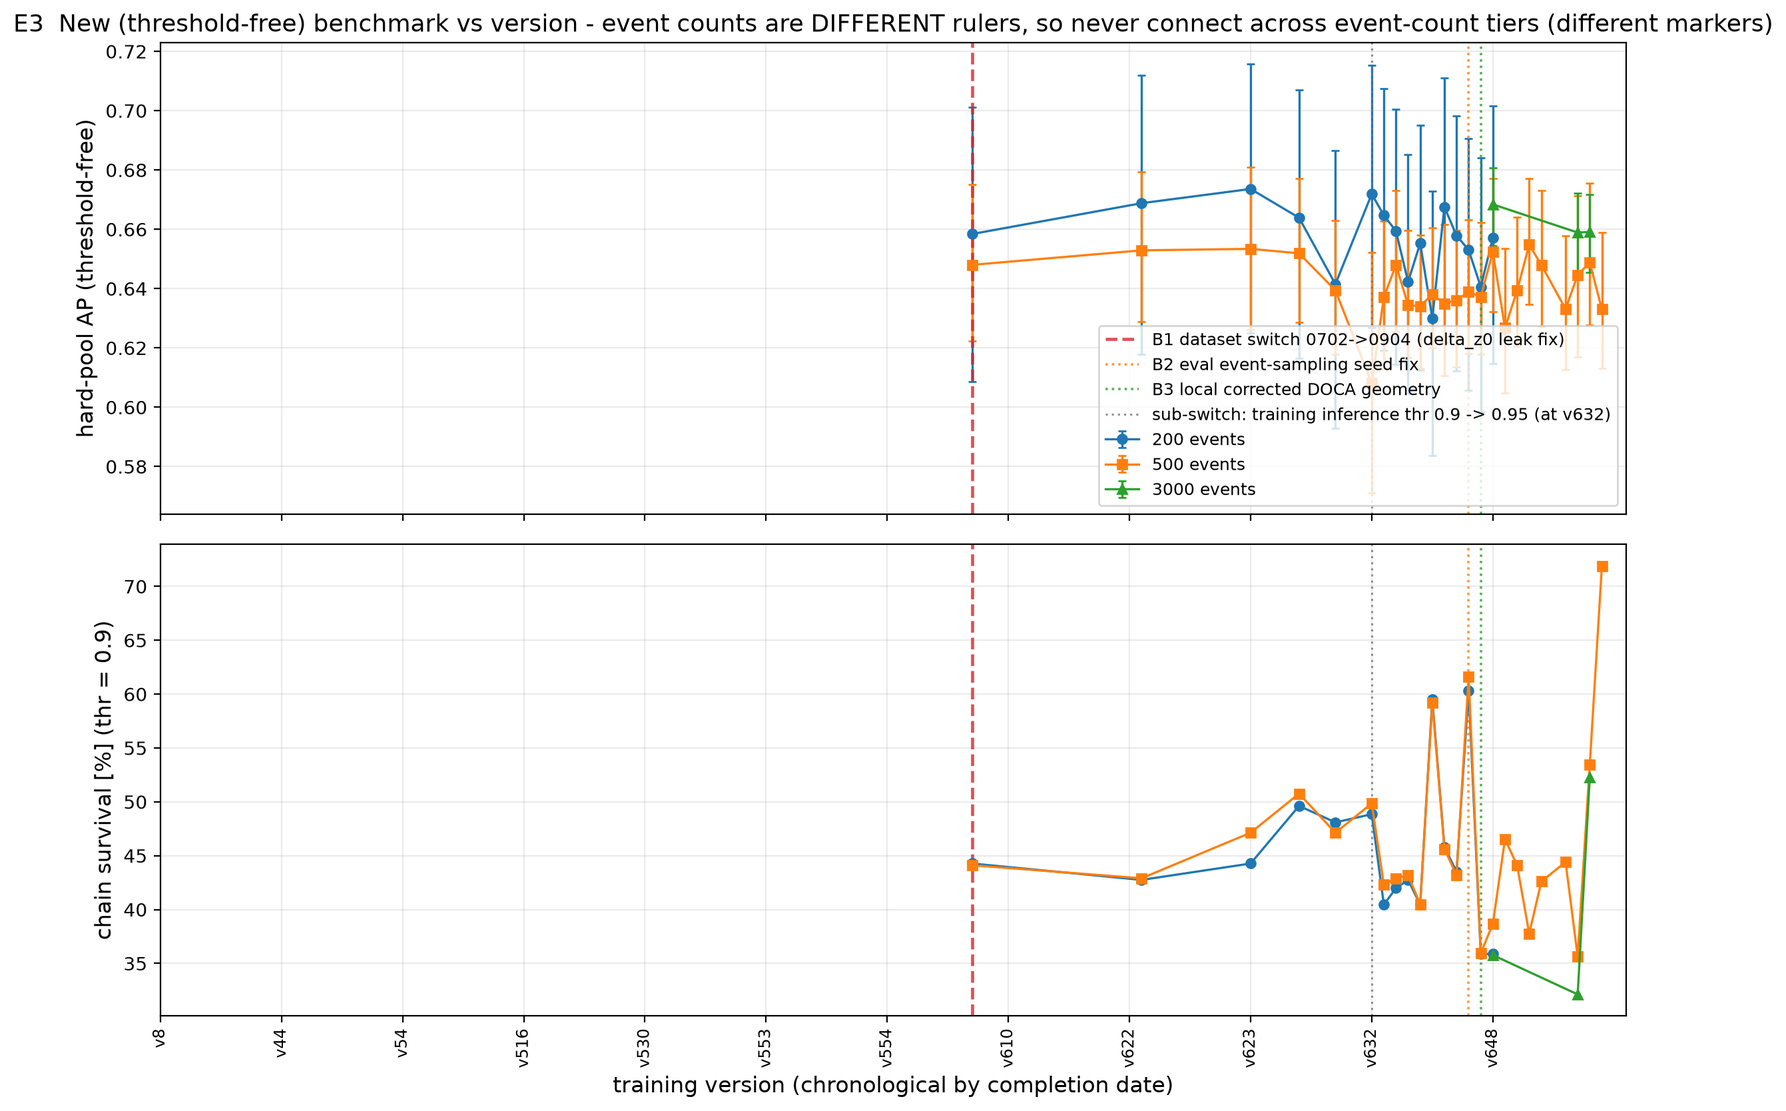
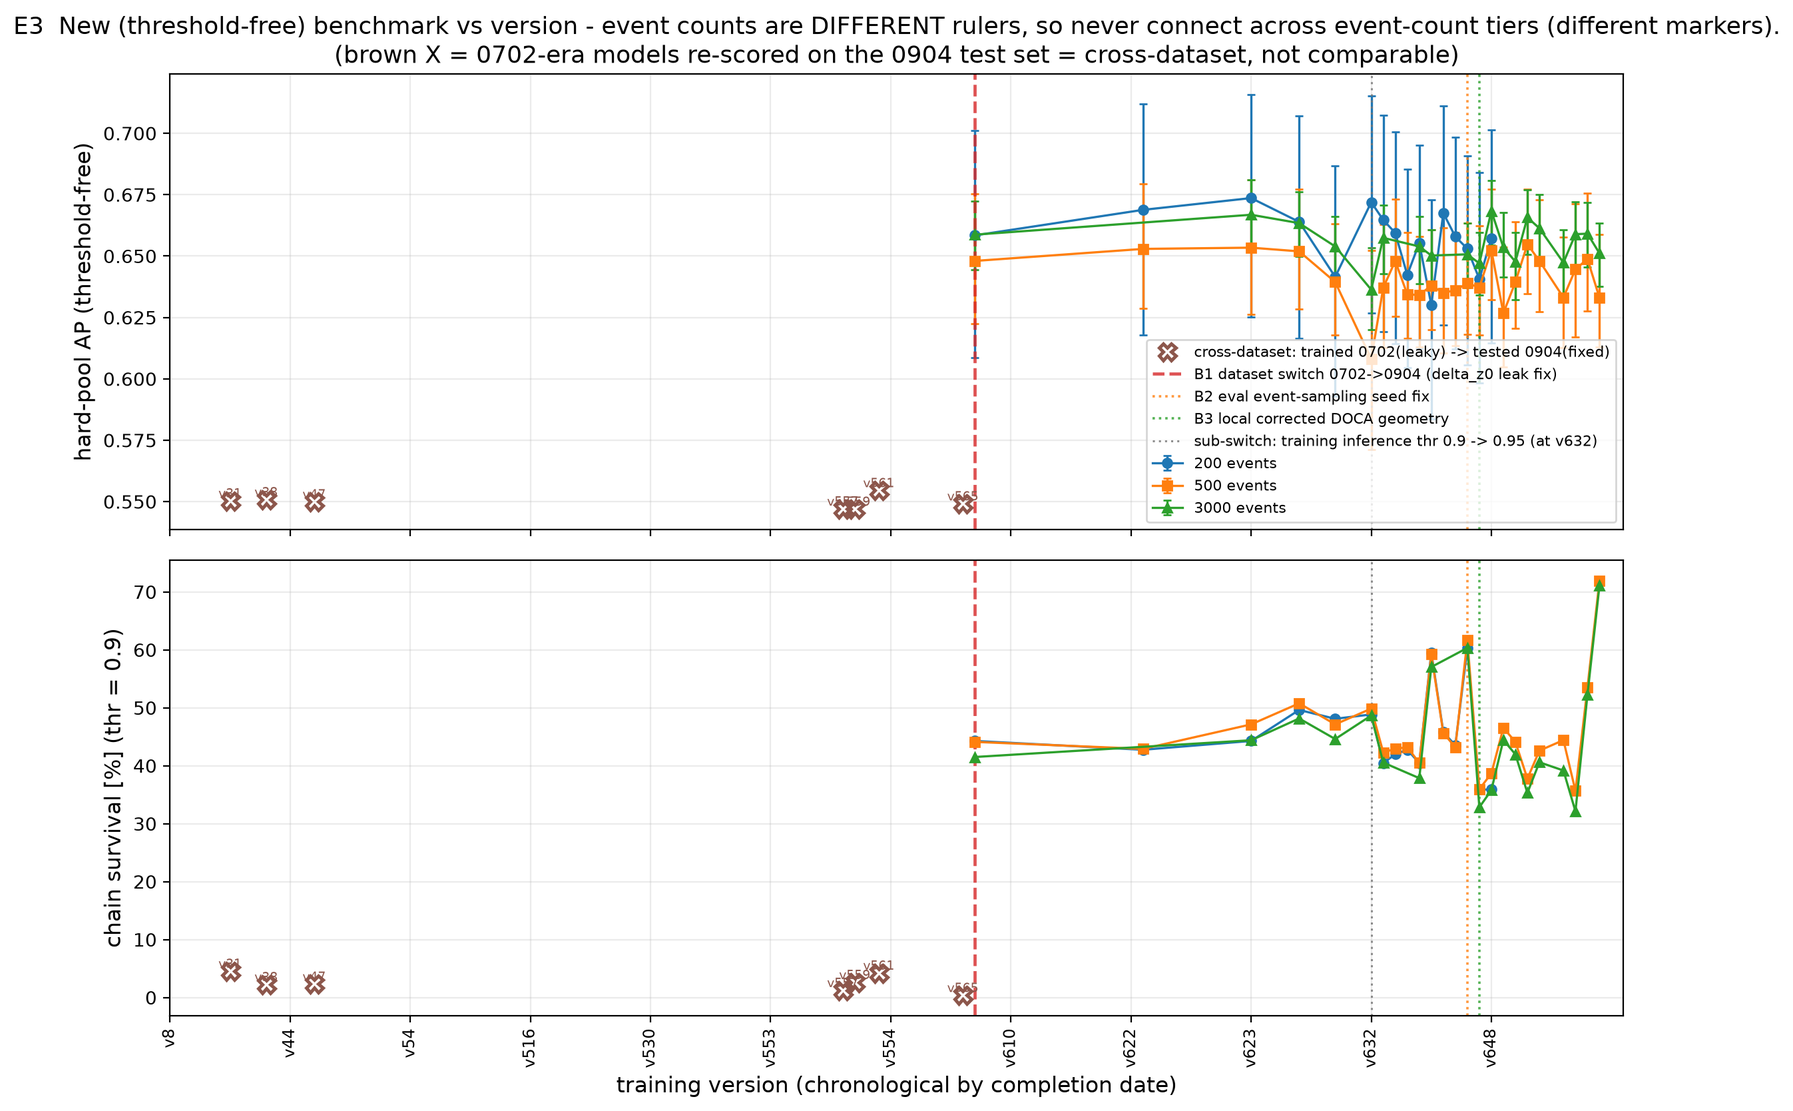
report(eval): 新 bench v3 套到 0702 老版本 (跨数据集) + 0904 补跑 3000 + E8
- 任务A: 用 eval_bench_v3_n90.yaml (3000 事件, thr0.9) 评测 0702 老版本
  v31/v38/v47/v557/v559/v561/v565 —— 均为 **cross-dataset** (训练 0702 leaky,
  评 0904 fixed); v27/v60 特征维度不符 (node 10 vs 8 / edge 4 vs 5), 无法评测.
  未做任何兼容垫片 (跑通的版本本就无需). 结果并入 bench_auc_v3_seed.csv.
- 任务B: 0904 线 16 版补跑 3000 事件 (hep_sub 10559461 / 10559798).
- 任务C: build_eval_matrix 稳健解析 (version 空则用 tag 反查);
  重画 E1..E8; E3/E6 加入 cross-dataset 老版本 (棕色);
  新增 E8 论文冠军旧尺子 vs 新尺子对照.
- 任务D: EVALUATION_PROTOCOL.md 追加 §10 (口径/兼容性/数值表/结论).

diff --git a/make_eval_evolution_figs.py b/make_eval_evolution_figs.py
@@ -1,9 +1,10 @@
-"""画"各 benchmark 随版本演变"的 7 张多面板图 (matplotlib Agg, DPI>=200, 英文标签).
+"""画"各 benchmark 随版本演变"的 8 张多面板图 (matplotlib Agg, DPI>=200, 英文标签).
 
 输入: report_figs/eval_matrix_all_versions.csv (由 build_eval_matrix.py 生成)
-输出: report_figs/eval_evolution/E1..E7_*.png
+输出: report_figs/eval_evolution/E1..E8_*.png
 
 口径与数据说明全部写在图内 (轴标签 / 图例 / 标题); 缺口留空不连线; 三个断点画竖线.
+[2026-10-13] E3/E6 里加入 0702 老版本的"跨数据集"新 bench 点 (brown), 新增 E8 论文冠军对照.
 用法: export PATH=$HOME/miniconda3/envs/dfei/bin:$PATH; python make_eval_evolution_figs.py
 """
 import os
@@ -140,8 +141,12 @@ def E3(df, pos):
     styles = {200: dict(marker="o", color="#1f77b4"),
               500: dict(marker="s", color="#ff7f0e"),
               3000: dict(marker="^", color="#2ca02c")}
+    # [2026-10-13] 0702 老版本 = CROSS-DATASET: model trained on 0702 (leaky),
+    #   evaluated on the 0904 (fixed) test set. 用独立 marker/线型单独画, 不与 0904 同数据集曲线相连.
+    XDS_C = "#8c564b"
     haveb = df[df[[f"ap_hardpool_{e}" for e in (200, 500, 3000)]].notna().any(axis=1)]
     xlo, xhi = int(haveb["idx"].min()) - 2, int(haveb["idx"].max()) + 2
+    xds = df[df["dataset"] == 702]
     for ax, (vbase, ylab) in zip(axes, [("ap_hardpool", "hard-pool AP (threshold-free)"),
                                         ("chain_surv", "chain survival [%] (thr = 0.9)")]):
         any_ = False
@@ -149,7 +154,8 @@ def E3(df, pos):
             vc = f"{vbase}_{ev}"
             if vc not in df:
                 continue
-            d = df[df[vc].notna()]
+            # 0904 同数据集版本 (排除 cross-dataset 老版本, 它们单独画)
+            d = df[df[vc].notna() & (df["dataset"] != 702)]
             if not len(d):
                 continue
             yerr_v = None
@@ -160,6 +166,16 @@ def E3(df, pos):
             ax.errorbar(d["idx"], d[vc], yerr=yerr_v, fmt=st["marker"] + "-", ms=5, lw=1.2,
                         capsize=2, color=st["color"], label=f"{ev} events")
             any_ = True
+        # cross-dataset 老版本 (0702-trained, 0904-evaluated): 棕色 X, 不连线
+        dx = xds[xds[f"{vbase}_3000"].notna()] if f"{vbase}_3000" in df else xds.iloc[0:0]
+        if len(dx):
+            ax.plot(dx["idx"], dx[f"{vbase}_3000"], "X", ms=9, mfc="none", mec=XDS_C, mew=1.8,
+                    ls="none", color=XDS_C,
+                    label="cross-dataset: trained 0702(leaky) -> tested 0904(fixed)")
+            for _, r in dx.iterrows():
+                ax.text(int(r["idx"]), r[f"{vbase}_3000"], f"v{int(r['version'])}",
+                        fontsize=7, color=XDS_C, ha="center", va="bottom")
+            any_ = True
         add_breakpoints(ax, df, pos, label=(ax is axes[0]))
         ax.set_ylabel(ylab)
         ax.grid(alpha=0.25)
@@ -167,8 +183,9 @@ def E3(df, pos):
         if not any_:
             ax.text(0.3, 0.5, "no data", transform=ax.transAxes)
     axes[0].set_title("E3  New (threshold-free) benchmark vs version - event counts are DIFFERENT rulers, "
-                      "so never connect across event-count tiers (different markers)")
-    axes[0].legend(loc="lower right", fontsize=9)
+                      "so never connect across event-count tiers (different markers).\n"
+                      "(brown X = 0702-era models re-scored on the 0904 test set = cross-dataset, not comparable)")
+    axes[0].legend(loc="lower right", fontsize=8)
     axes[1].set_xlabel("training version (chronological by completion date)")
     deco_xaxis(axes[1], df)
     fig.tight_layout()
@@ -224,17 +241,25 @@ def E5(df, pos):
 
 
 def E6(df, pos):
-    """slope / dumbbell: 同一批版本在三把尺子下的排名是否一致."""
-    d = df[(df["all_particles"].notna()) & (df["ap_hardpool_200"].notna() | df["ap_hardpool_500"].notna())].copy()
-    # 新 bench 用 500 档优先, 否则 200 档
-    ap = []
-    cs = []
-    for _, r in d.iterrows():
-        a = r["ap_hardpool_500"] if pd.notna(r["ap_hardpool_500"]) else r["ap_hardpool_200"]
-        c = r["chain_surv_500"] if pd.notna(r["chain_surv_500"]) else r["chain_surv_200"]
-        ap.append(a); cs.append(c)
-    d["r_new_ap"] = ap
-    d["r_new_cs"] = cs
+    """slope / dumbbell: 同一批版本在三把尺子下的排名是否一致.
+
+    [2026-10-13] 纳入 0702 老版本 (cross-dataset): 它们的"旧 all_particles"来自 0702 测试集
+    (leaky), "新 bench"来自 0904 测试集 -> 棕色虚线单独标出, 排名不可与 0904 版本直接横比.
+    新 bench 档位优先 3000 (统计功效最高) -> 500 -> 200.
+    """
+    def _pick(r, base):
+        for ev in (3000, 500, 200):
+            c = f"{base}_{ev}"
+            if c in r.index and pd.notna(r[c]):
+                return r[c]
+        return np.nan
+
+    d = df[(df["all_particles"].notna()) & (
+        df[[f"ap_hardpool_{e}" for e in (200, 500, 3000)]].notna().any(axis=1))].copy()
+    d["r_new_ap"] = d.apply(lambda r: _pick(r, "ap_hardpool"), axis=1)
+    d["r_new_cs"] = d.apply(lambda r: _pick(r, "chain_surv"), axis=1)
+    d["is_xds"] = d["dataset"] == 702
+    d = d[d["r_new_ap"].notna()]
 
     rulers = [("old\nall_particles", "all_particles", "#1f77b4"),
               ("new\nap_hardpool", "r_new_ap", "#ff7f0e"),
@@ -249,26 +274,112 @@ def E6(df, pos):
     for _, r in d.iterrows():
         v = int(r["version"])
         ys = [ranks[col][v] for _, col, _ in rulers]
-        hl = v in (623, 632, 633, 648, 654)
-        ax.plot(xs, ys, "-o", ms=5, lw=2.2 if hl else 0.7,
-                alpha=0.95 if hl else 0.4,
-                color="#000000" if hl else "#888888",
-                zorder=3 if hl else 1)
+        xds = bool(r["is_xds"])
+        hl = (not xds) and v in (623, 632, 633, 648, 654)
+        ax.plot(xs, ys, "--" if xds else "-", marker="o", ms=5,
+                lw=2.0 if xds else (2.2 if hl else 0.7),
+                alpha=0.9 if xds else (0.95 if hl else 0.4),
+                color="#8c564b" if xds else ("#000000" if hl else "#888888"),
+                zorder=3 if (hl or xds) else 1)
         ax.text(-0.06, ys[0], f"v{v}", ha="right", va="center", fontsize=8.5,
-                color="k" if hl else "0.4")
-        ax.text(2.06, ys[2], f"v{v}", ha="left", va="center", fontsize=8.5, color="0.4")
+                color="#8c564b" if xds else ("k" if hl else "0.4"))
+        ax.text(2.06, ys[2], f"v{v}", ha="left", va="center", fontsize=8.5,
+                color="#8c564b" if xds else "0.4")
     ax.set_xticks(xs); ax.set_xticklabels([nm for nm, _c, _col in rulers], fontsize=12)
     ax.set_ylabel("rank within the common set (1 = best under that ruler)")
     ax.set_xlim(-0.5, 2.5)
     ax.invert_yaxis()
     ax.set_title("E6  Ruler divergence: same versions, three rulers - do the rankings agree?\n"
                  "Straight parallel lines = agreement; crossings = the ruler decides the winner. "
+                 "brown dashed = 0702-era model re-scored on 0904 = cross-dataset (see report). "
                  "(strict end-to-end chain_full exists only for v654 -> not rankable, see report)")
+    from matplotlib.lines import Line2D
+    ax.legend(handles=[
+        Line2D([0], [0], color="#000000", lw=2.2, marker="o", label="0904 same-dataset (highlighted)"),
+        Line2D([0], [0], color="#888888", lw=0.7, marker="o", label="0904 same-dataset"),
+        Line2D([0], [0], color="#8c564b", lw=2.0, ls="--", marker="o",
+               label="0702 cross-dataset (trained 0702, tested 0904)"),
+    ], loc="lower right", fontsize=9)
     for i in range(3):
         ax.axvline(i, color="0.85", zorder=0)
     ax.grid(alpha=0.2, axis="y")
     fig.tight_layout()
     fig.savefig(os.path.join(OUTDIR, "E6_ruler_divergence.png")); plt.close(fig)
+
+
+def E8(df, pos):
+    """论文期冠军 (0702 线) 的 "旧尺子 vs 新尺子" 双面板对照.
+
+    [2026-10-13] CROSS-DATASET: 这些模型训练于 0702 (leaky), 新 bench 评于 0904 (fixed).
+    左面板 = 旧 benchmark all_particles (0702 测试集, 论文口径);
+    右面板 = 新 benchmark ap_hardpool / chain_surv (0904 测试集).
+    v27/v60 因特征维度不兼容 (node 10 vs 8, edge 4 vs 5) 无法用新 bench 评测, 只在左面板出现.
+    """
+    champs = [27, 31, 38, 47, 60, 557]
+    d = df[df["version"].isin(champs)].sort_values("version").copy()
+
+    def _pick(r, base):
+        for ev in (3000, 500, 200):
+            c = f"{base}_{ev}"
+            if c in r.index and pd.notna(r[c]):
+                return r[c], ev
+        return np.nan, None
+
+    apv, csv_, evv = [], [], []
+    for _, r in d.iterrows():
+        a, e = _pick(r, "ap_hardpool")
+        c, _ = _pick(r, "chain_surv")
+        apv.append(a); csv_.append(c); evv.append(e)
+    d["new_ap"], d["new_cs"], d["new_ev"] = apv, csv_, evv
+    d_old = d[d["all_particles"].notna()]
+    d_new = d[d["new_ap"].notna()]
+
+    fig, axes = plt.subplots(1, 2, figsize=(15, 6.4))
+    # ---- panel A: OLD ruler (all_particles, 0702 test) ----
+    ax = axes[0]
+    x = np.arange(len(d_old))
+    ax.bar(x, d_old["all_particles"], color="#1f77b4", alpha=0.85)
+    for i, (_, r) in enumerate(d_old.iterrows()):
+        has_new = pd.notna(r["new_ap"])
+        ax.text(i, r["all_particles"] + 1, f"{r['all_particles']:.1f}", ha="center", fontsize=9)
+        ax.text(i, -6.5, f"v{int(r['version'])}" + ("" if has_new else "\n(no new-bench)"),
+                ha="center", fontsize=8.5, color="k")
+    ax.set_xticks(x); ax.set_xticklabels([])
+    ax.set_ylim(0, max(105, float(d_old["all_particles"].max()) * 1.15))
+    ax.set_ylabel("OLD ruler: all_particles [%]  (0702 test set, paper protocol)")
+    ax.set_title("E8a  Paper-era champions (0702 line) - OLD ruler\n"
+                 "all_particles on the leaky 0702 test set")
+    ax.grid(alpha=0.25, axis="y")
+    # ---- panel B: NEW ruler (ap_hardpool / chain_surv, 0904 test) ----
+    ax = axes[1]
+    yn = np.arange(len(d_new))
+    ax.bar(yn, d_new["new_ap"], width=0.55, color="#ff7f0e", alpha=0.85,
+           label="new ap_hardpool (threshold-free)")
+    for i, (_, r) in enumerate(d_new.iterrows()):
+        ax.text(i, r["new_ap"] + 0.008, f"{r['new_ap']:.3f}", ha="center", fontsize=8.5)
+    ax.set_ylim(0, 1.0)
+    ax.set_ylabel("new benchmark: ap_hardpool (threshold-free)")
+    ax2 = ax.twinx()
+    ax2.plot(yn, d_new["new_cs"], "s--", color="#2ca02c", ms=8, lw=1.5,
+             label="new chain_surv [%] (thr 0.9)")
+    for i, (_, r) in enumerate(d_new.iterrows()):
+        ax2.text(i, r["new_cs"] + 1.2, f"{r['new_cs']:.1f}%", ha="center", fontsize=8.5, color="#2ca02c")
+    ax2.set_ylim(0, max(60, float(d_new["new_cs"].max()) * 1.25))
+    ax2.set_ylabel("new benchmark: chain_surv [%] (thr 0.9)")
+    ax.set_xticks(yn)
+    ax.set_xticklabels([f"v{int(r['version'])}\nN={int(r['new_ev'])}" for _, r in d_new.iterrows()],
+                       fontsize=8.5)
+    ax.set_title("E8b  Same champions - NEW ruler (0904 test set)\n"
+                 "CROSS-DATASET: trained 0702 (leaky), evaluated on 0904 (fixed)")
+    ax.grid(alpha=0.25, axis="y")
+    h1, l1 = ax.get_legend_handles_labels()
+    h2, l2 = ax2.get_legend_handles_labels()
+    ax.legend(h1 + h2, l1 + l2, loc="upper left", fontsize=9)
+    ax.text(0.5, -0.24, "v27/v60 not evaluable under the new bench (FeatureDim mismatch, "
+                        "node 10 vs 8 / edge 4 vs 5). Numbers are not comparable across panels.",
+            transform=ax.transAxes, ha="center", fontsize=8.5, color="0.3")
+    fig.tight_layout()
+    fig.savefig(os.path.join(OUTDIR, "E8_paper_champions_under_new_ruler.png")); plt.close(fig)
 
 
 def E7(df, pos):
@@ -294,7 +405,7 @@ def main():
     pos = bp_positions(df)
     print("breakpoint x positions:", pos)
     E1(df, pos); E2(df, pos); E3(df, pos); E4(df, pos)
-    E5(df, pos); E6(df, pos); E7(df, pos)
+    E5(df, pos); E6(df, pos); E7(df, pos); E8(df, pos)
     print("wrote figures to", OUTDIR)
 
 

diff --git a/build_eval_matrix.py b/build_eval_matrix.py
@@ -223,16 +223,37 @@ def cross_break(version, dataset):
     return "+".join(hits) if hits else ""
 
 
+def _row_version(r):
+    """稳健取版本号: 优先 version 列, 缺失时从 tag 里的 v<num> 反查."""
+    v = r.get("version")
+    if v is not None and not pd.isna(v):
+        try:
+            return int(float(v))
+        except (TypeError, ValueError):
+            pass
+    m = re.search(r"v(\d+)", str(r.get("tag", "")))
+    return int(m.group(1)) if m else None
+
+
 def load_bench():
-    """bench_auc_v3_seed.csv -> {version(str): {events(int): row-dict}} (去重)."""
+    """bench_auc_v3_seed.csv -> {version(str): {events(int): row-dict}} (去重).
+
+    [2026-10-13] version 列可能为空 -> 用 tag 里的 v<num> 反查 (见 _row_version).
+    """
     out = {}
     if not os.path.exists(BENCH):
         return out
     df = pd.read_csv(BENCH)
     df = df.drop_duplicates(subset=["tag", "version", "events"], keep="first")
     for _, r in df.iterrows():
-        ev = int(r["events"])
-        out.setdefault(str(int(r["version"])), {})[ev] = r
+        v = _row_version(r)
+        if v is None:
+            continue
+        try:
+            ev = int(r["events"])
+        except (TypeError, ValueError):
+            continue
+        out.setdefault(str(v), {})[ev] = r
     return out
 
 

diff --git a/EVALUATION_PROTOCOL.md b/EVALUATION_PROTOCOL.md
@@ -212,3 +212,102 @@ Legend: ✅ directly comparable · ⚠ comparable only under the stated condi
    number may mix two working points.
 5. **`trdist` random-axis projection** — numerically rotation-invariant (so deterministic and safe,
    per `docs/feature_ceiling_analysis.md` §3.5), but I did not re-run the check myself.
+
+---
+
+## 10. APPENDIX — Re-scoring the 0702 line under the new (v3) benchmark (2026-10-13)
+
+> Append-only section; it does not change §0–§9. It records the first time the new threshold-free
+> benchmark (R2) was pointed at the **0702-era** models, and the correct reading of the results.
+> Produced by `analyze_prune_loss.py --config config_files/eval_bench_v3_n90.yaml --events 3000`
+> (same `--version/--tag` plumbing as `submit_bench_v3.sh`); rows appended to
+> `report_figs/bench_auc_v3_seed.csv` (subset also in `report_figs/bench_auc_v3_0702_cross.csv`).
+
+### 10.1 What was run, and the cross-dataset label (mandatory)
+
+Every number below is **cross-dataset: model trained on 0702 (leaky), evaluated on 0904 (fixed).**
+The checkpoint was trained on `DFEI_IFT_20260702` (test set `00342442`, carrying the `delta_z0` order
+leak, §7/B1); the v3 benchmark always runs on the **0904** test split (`inclusive_00342451`,
+`data_seed=0`, `nfiles=20`, `thr=0.9`, inputs normalised with the **0904** `normalization_dict.pt`).
+So these rows measure "a leaky-trained model applied to the fixed test set", not a within-dataset number.
+
+### 10.2 How to read the R2 columns in the cross-dataset regime
+
+| column | correct reading here | not comparable with |
+|---|---|---|
+| `ap_hardpool` / `p_at_r90_hardpool` | 0702 model's edge-score ranking quality **on 0904 hard-pool edges**. The absolute value (~0.54–0.55) is depressed by both the leak-trained representation and the 0702→0904 graph-population shift. | any 0904 same-dataset `ap_hardpool` (~0.63–0.67); any 0702 `all_particles` |
+| `chain_surv` / `chain_surv_2/3/4` | fraction of 0904 truth chains whose tracks **and** true structural edges all pass `thr=0.9`; here 0.4–4.6 % (vs 32–71 % for 0904 same-dataset). NB `chain_surv` is a pruning-layer **upper bound** (§4). | any 0904 same-dataset `chain_surv`; anything on 0702 |
+| `per_link_p_2` | implied single-link survival from `chain_surv_2`; **relative** diagnostic only | across datasets |
+| `events` | all 0702 rows at **3000 events** (same tier as the 0904 versions added in §10.4) | 200/500 tiers |
+
+Honest statement: these numbers say *how a 0702-trained model behaves on the fixed 0904 test set*, and
+are used only to ask "does the paper-era ranking survive a change of ruler + dataset?".
+
+### 10.3 Compatibility issues encountered (version → error → shim)
+
+Loading path: `adjust_config_evaluation` reads each version's `input_config.yaml` as the architecture
+baseline, then overlays only `settings/inference/evaluate`. The model class has since gained
+`extra_node_dim`/`extra_edge_dim`/`derived_*`/`line_graph`/`geom_keep`, so each old checkpoint was retested:
+
+| version | result | error (if any) | shim added |
+|---|---|---|---|
+| **v31, v38, v47, v557, v559, v561, v565** | ✅ ran | — | **none** |
+| **v27, v60** | ❌ not evaluable | `RuntimeError: mat1 and mat2 shapes cannot be multiplied (Nx8 and 10x128)` at `hetero_graphcoder.py:45` (tracks node model), first forward | **none — deliberately** |
+
+- **No shims were added anywhere.** The 7 good versions load unchanged (`use_pid:'true'` → the pipeline
+  concats the 5-col `tracks.pid` → 13 node features, matching their ckpt; tt edges 5-wide, matching).
+- **v27/v60 = genuine FeatureDim/era mismatch, not a missing config default.** Their ckpts expect
+  tracks-node input **10** and tt-edge input **4**; the current 0904 pipeline gives **8** / **5**. They
+  trained on the older `DFEI_data/converted_LHCbcollision` layout (`use_pid` unset). Fixing needs model
+  code changes (out of scope); a "`use_pid='true'`" stop-gap would append the new pid block to an old
+  feature vector and give silently wrong numbers. Hence **"not evaluable"**, not back-filled.
+
+### 10.4 Paper champions vs the new ruler (3000 events, cross-dataset)
+
+`all_particles` = old (leaky, 0702-test) ruler from the matrix; `ap_hardpool`/`chain_surv` = new ruler
+on 0904. All new-ruler rows: **3000 events, thr 0.9, cross-dataset = yes**.
+
+| version | all_particles [%] (0702) | ap_hardpool (0904) | p@r90_hardpool | chain_surv [%] | per_link_p_2 | events | cross-dataset |
+|---|---|---|---|---|---|---|---|
+| v27 | 92.30 | — (not evaluable) | — | — | — | — | yes |
+| v60 | 92.93 | — (not evaluable) | — | — | — | — | yes |
+| v31 | 40.45 | 0.5504 | 0.5224 | 4.57 | 0.2940 | 3000 | yes |
+| v38 | 52.13 | 0.5509 | 0.5229 | 2.28 | 0.2079 | 3000 | yes |
+| v47 | 55.86 | 0.5500 | 0.5231 | 2.33 | 0.2162 | 3000 | yes |
+| v557 | 57.18 | 0.5471 | 0.5219 | 1.27 | 0.1324 | 3000 | yes |
+| v559 | 56.86 | 0.5470 | 0.5236 | 2.64 | 0.2162 | 3000 | yes |
+| v561 | 51.52 | 0.5546 | 0.5222 | 4.26 | 0.2777 | 3000 | yes |
+| v565 | 53.28 | 0.5492 | 0.5235 | 0.41 | 0.0764 | 3000 | yes |
+
+Context: the 0904 same-dataset 3000-event rows (added here) sit at **ap_hardpool 0.636–0.668,
+chain_surv 32–71 %** (v601/623/628/631/632/633/637/641/642/643/645/646/648/649/651/652/653/654/655).
+
+### 10.5 Ranking conclusions (E6 / E8)
+
+Common set = versions with both `all_particles` and a new-ruler value (now includes the 7 evaluable
+0702 versions). **N = 31; N = 7 cross-dataset.** With the figure's convention (rank 1 = worst):
+
+- **Old ruler:** the 7 cross-dataset versions sit at ranks **16, 22, 23, 26, 27, 29, 30** — v557 is the
+  **2nd-best of all 31** by the leaky `all_particles`.
+- **New ruler (`ap_hardpool`):** the same 7 occupy ranks **1,2,3,4,5,6,7** — the **entire bottom seven**;
+  every 0904 same-dataset version beats every 0702 cross-dataset version.
+- **New ruler (`chain_surv`):** again ranks **1,2,3,4,5,6,7** (bottom seven).
+- **v557**: 2nd-best (old) → 2nd-worst (new ap AND new chain_surv). **v31**: 16th (old) → 5th (new ap).
+  The ranking is essentially **reversed/scrambled** by the ruler change.
+
+**E8** (`E8_paper_champions_under_new_ruler.png`): of the listed paper-era champions only v31/v38/v47/v557
+are evaluable (v27/v60 fail, §10.3). Their old-ruler spread (40–57 %) collapses to a flat new-ruler band
+(`ap_hardpool` 0.547–0.551, `chain_surv` 1.3–4.6 %), far below the 0904 same-dataset band.
+
+### 10.6 Caveats / conflicts found
+
+1. **Cross-dataset, twice over.** For the 0702 rows the two rulers are on **different test sets**
+   (old 0702/`00342442`; new 0904/`00342451`), so part of the gap is genuine dataset shift (the §2 minIP
+   baseline itself moves 12.70 → 10.15 across the switch). The *direction* (paper winners → bottom of the
+   honest ruler) is robust; the *magnitude* must not be attributed to the leak alone.
+2. **Mixed tiers inside E6.** E6 prefers 3000 → 500 → 200 per version; a few versions still only have
+   500/200. Tiers are different rulers (§4) — only the large rank moves should be interpreted.
+3. **v27/v60 look "best" on the old ruler (92 %)** yet are exactly the versions that cannot be evaluated
+   at all on the new ruler. The two highest paper numbers are also the two least verifiable.
+4. **Old `all_particles` is leaky and denominator-unfixed** (§1a defect 1) — the 40–57 % band needs
+   `All_fix` before it means anything; only the *relative* reshuffle is claimed here.
